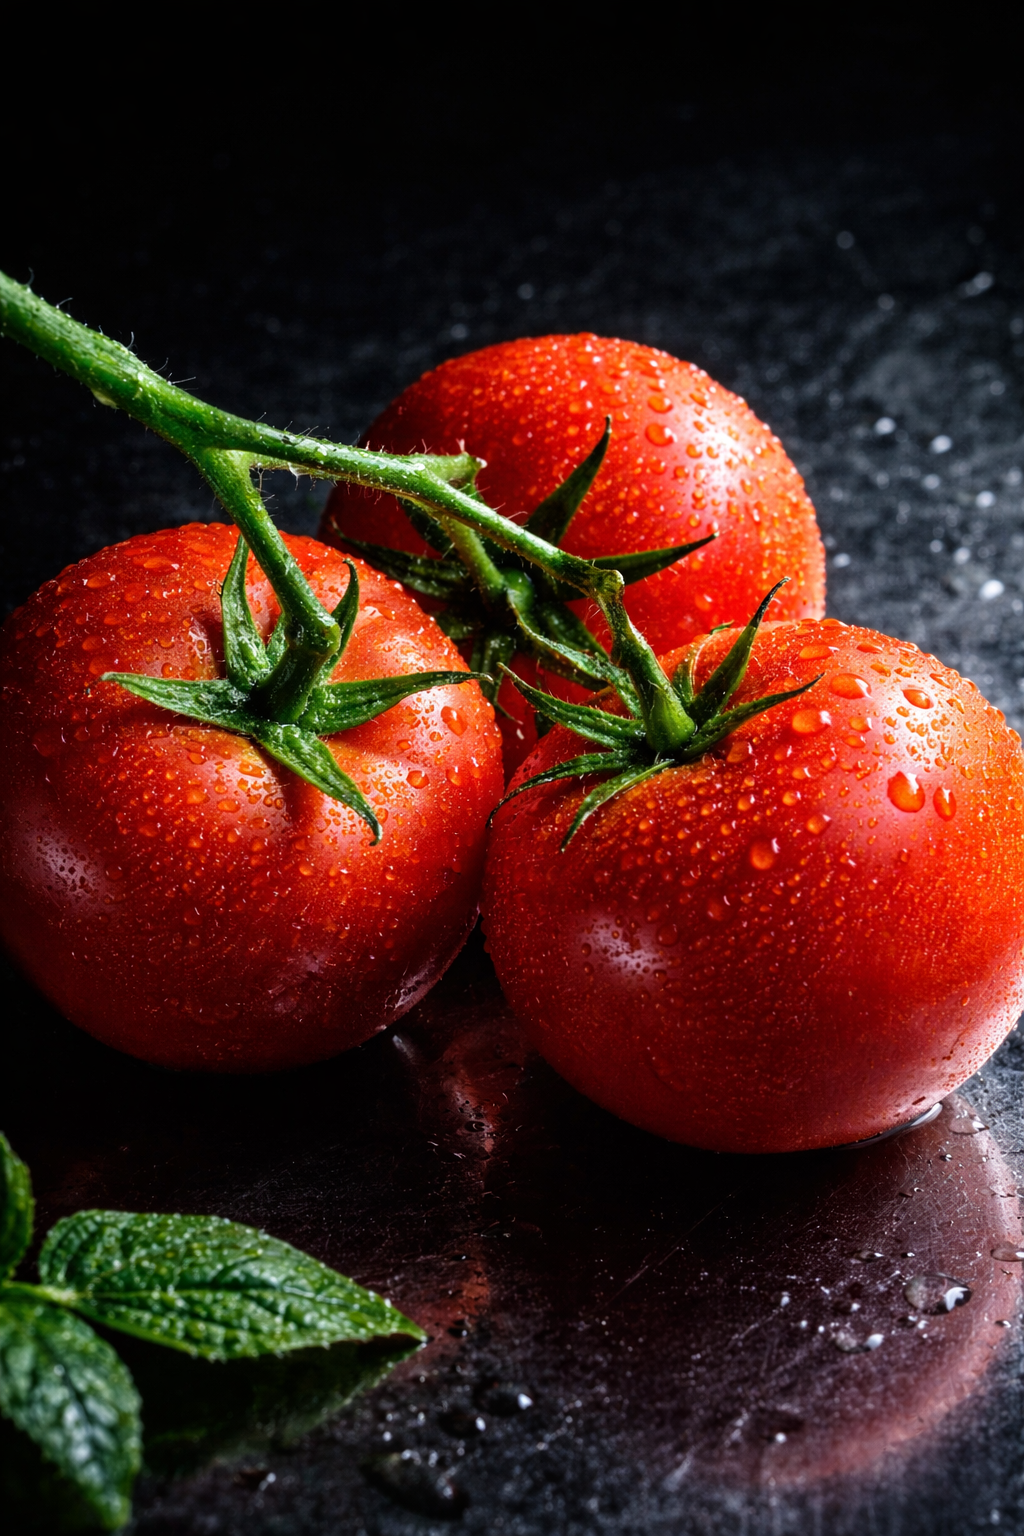
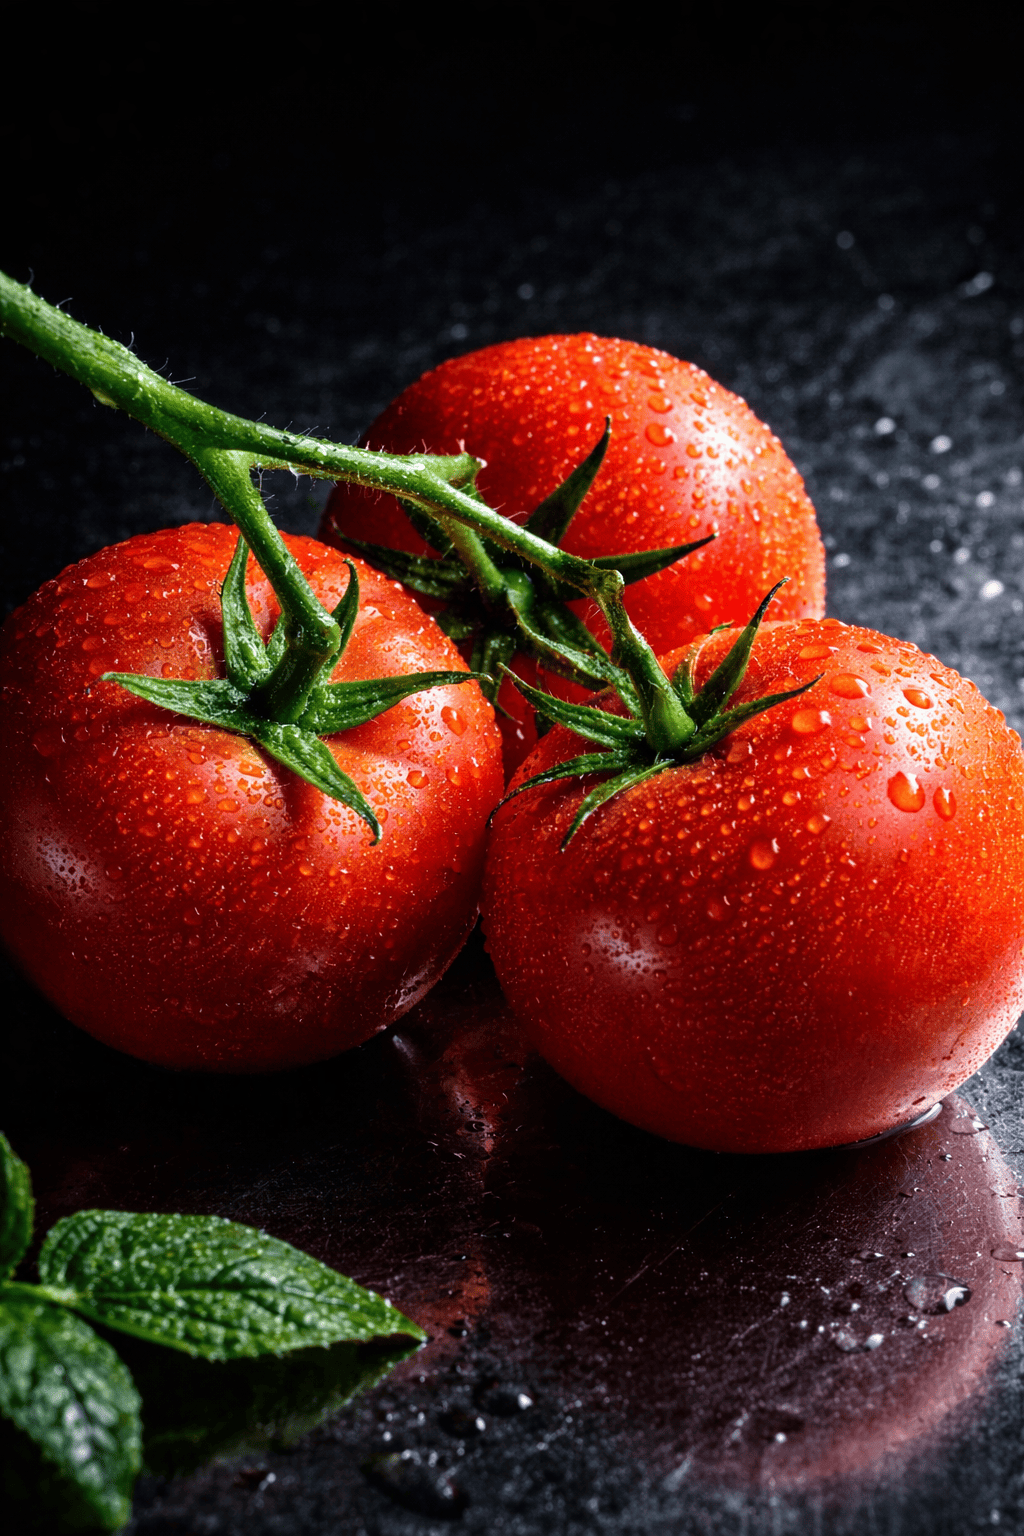
AI vision info

diff --git a/smartfarm/templates/home.html b/smartfarm/templates/home.html
@@ -41,8 +41,8 @@
                         AI <span class="text-green-400">Vision</span>
                     </h1>
                     <p class="text-white/70 text-ml md:text-lg max-w-2xl leading-relaxed mb-10">
-                        One Shot. Three Insights.<br class="hidden sm:block">
-                        영상 하나로 품질 · 질병 · 성장을 동시에 분석합니다.
+                        한 번의 촬영으로 세 가지 진단 <br class="hidden sm:block">
+                        품질·질병·성장을 AI가 동시에 분석합니다.
                     </p>
                     <div class="flex flex-wrap gap-4">
                         <a href="/vision" class="bg-green-600 hover:bg-green-700 text-white px-8 py-4 rounded-xl font-bold transition-all shadow-lg flex items-center gap-2">
@@ -51,7 +51,7 @@
                     </div>
                 </div>
             </div>
-
+        </div>
 
 <!--            <div class="swiper-slide relative flex items-center bg-slate-900">-->
 <!--                <div class="absolute inset-0 opacity-30 bg-cover bg-center" style="background-image: url('{{ url_for('static', filename='tomato_growth.png') }}');"></div>-->